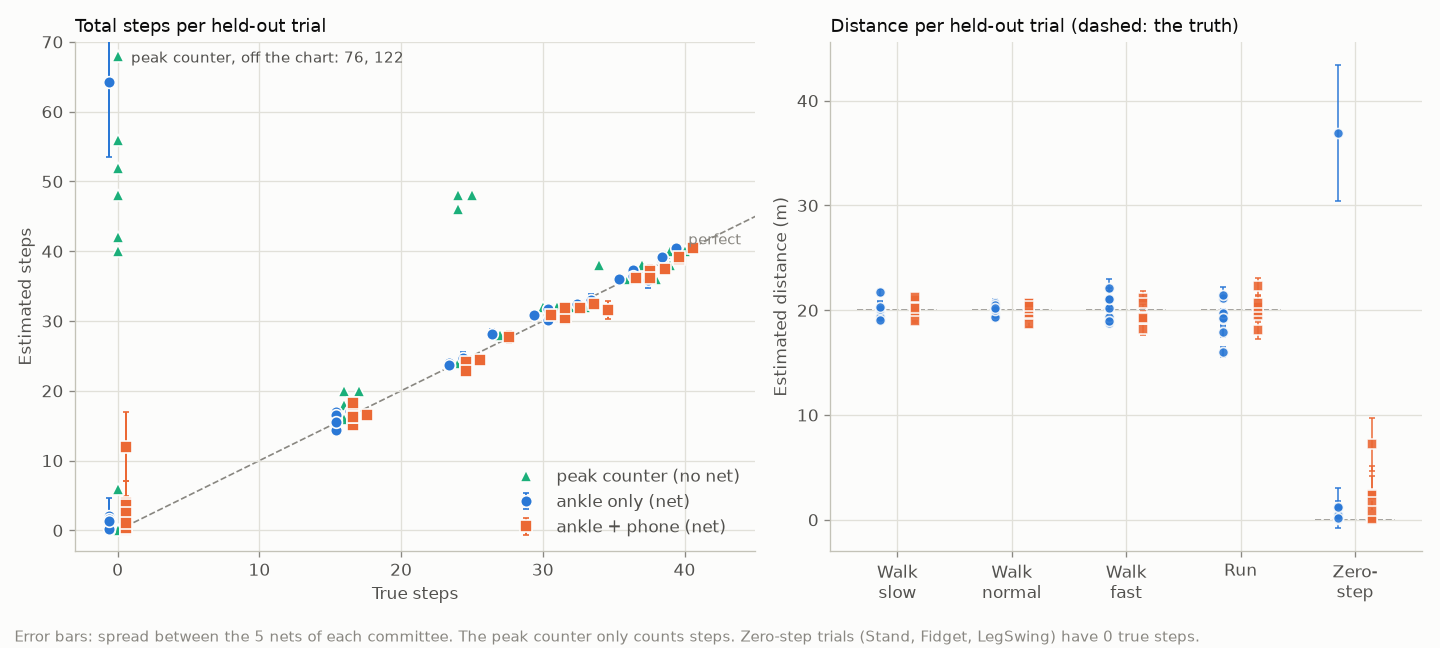
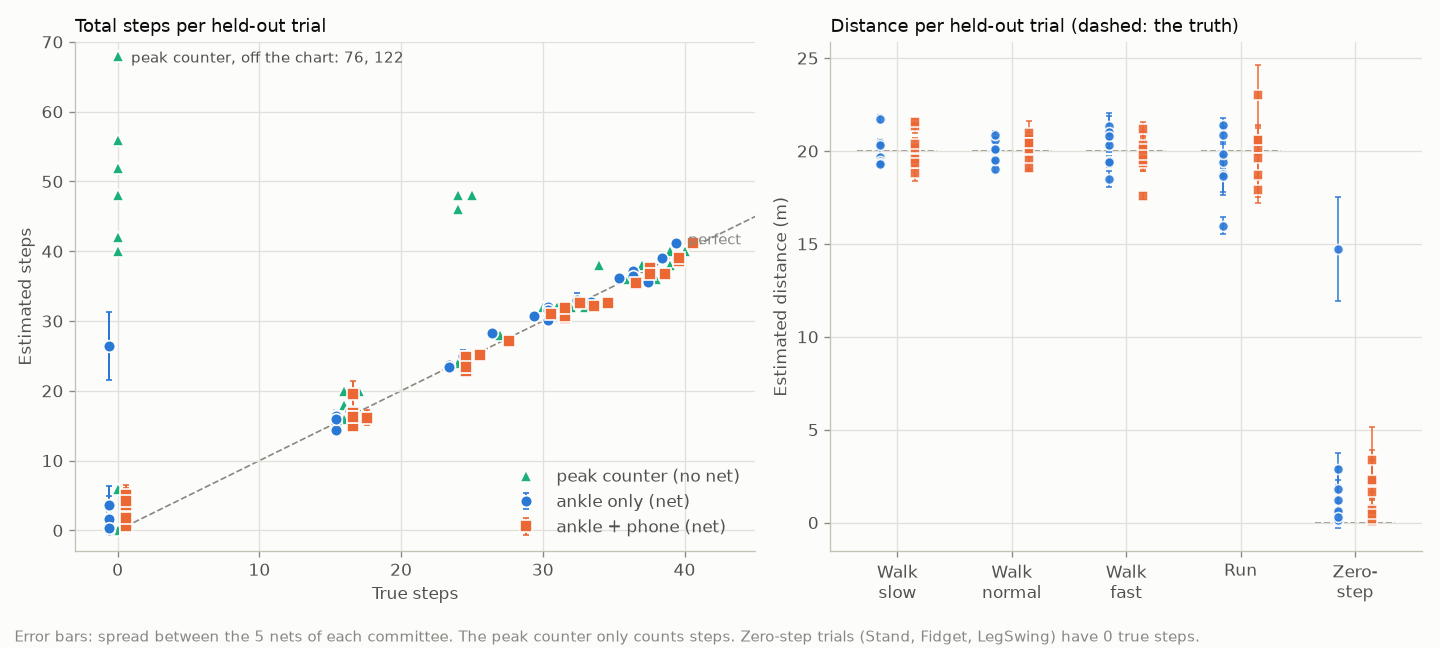
How Many Steps (HW7): step counter uses per-axis + direction-free features
Adds 10 features that don't depend on how the sensor sits on the leg
(spread and peak of the overall acceleration and rotation, and the spread
along each clip's own main directions) to the per-axis spread and peak.
Leave-one-trial-out, ankle only: 2.30 -> 1.49 steps per trial overall,
LegSwing T03 64 -> 27 steps, walks and runs within 0.07 steps per trial.
Model, plots, results, +/- table and READMEs updated. FEATURE_SET in
train_steps.py switches back to per-axis.

diff --git a/Mohammed's Projects/How Many Steps/training/train_steps.py b/Mohammed's Projects/How Many Steps/training/train_steps.py
@@ -16,8 +16,9 @@ What it does:
    its trial's step rate (steps / moving time) and speed (distance / moving
    time); zero-step trials get 0 for both.
 4. Features per clip: the spread (standard deviation) and peak (largest
-   absolute value) of each channel. No averages: those mostly measure how the
-   sensor is tilted, not how you move.
+   absolute value) of each channel, plus 10 that don't depend on how the
+   sensor sits on the leg (FEATURE_SET = "combined", see clip_features). No
+   averages: those mostly measure how the sensor is tilted, not how you move.
 5. A small net, features -> 16 -> 16 -> 2 (steps/s, m/s), trained with mean
    squared error until the loss flattens.
 6. Leave-one-trial-out testing: for every trial, a committee of 5 nets
@@ -63,6 +64,10 @@ SOFT_STOMP_S = 3                 # a stomp too soft for the checks' 3 g minimum 
                                  # is taken as the biggest spike in the first 3 s instead
 PACES = ["Walk_slow", "Walk_normal", "Walk_fast", "Run"]
 CHANNELS = ["ax", "ay", "az", "gx", "gy", "gz"]
+# Which features describe a clip (see clip_features):
+#   "per_axis": spread and peak of each sensor axis (12 per sensor)
+#   "combined": those, plus 10 that don't depend on how the sensor sits on the leg (22 per sensor)
+FEATURE_SET = "combined"
 
 N_NETS = 5                       # committee size
 HIDDEN = 16
@@ -149,15 +154,37 @@ def clip_starts(tr):
 
 
 def clip_features(x):
-    """Spread and peak of each channel of one clip (rows = samples, 6 columns)."""
-    return np.concatenate([x.std(axis=0), np.abs(x).max(axis=0)])
+    """Features of one clip (rows = samples, 6 columns: ax ay az gx gy gz).
+
+    Per axis: the spread and peak of each channel. These depend on how the
+    sensor sits on the leg: re-strapped at another angle, the same swing
+    shows up on different axes.
+
+    Direction-free (FEATURE_SET = "combined"), for acceleration and rotation
+    each: the spread and peak of the overall size (magnitude, whatever the
+    direction), and the spread along the clip's own three main directions,
+    largest first (the square roots of the covariance's eigenvalues). The
+    same movement gives the same numbers however the sensor is turned."""
+    per_axis = np.concatenate([x.std(axis=0), np.abs(x).max(axis=0)])
+    if FEATURE_SET == "per_axis":
+        return per_axis
+    free = []
+    for v in (x[:, :3], x[:, 3:]):
+        size = np.linalg.norm(v, axis=1)
+        main_spreads = np.sqrt(np.clip(np.linalg.eigvalsh(np.cov(v.T))[::-1], 0, None))
+        free += [size.std(), size.max(), *main_spreads]
+    return np.concatenate([per_axis, free])
 
 
 def feature_names(with_phone):
-    names = [f"ankle_{c}_spread" for c in CHANNELS] + [f"ankle_{c}_peak" for c in CHANNELS]
-    if with_phone:
-        names += [f"phone_{c}_spread" for c in CHANNELS] + [f"phone_{c}_peak" for c in CHANNELS]
-    return names
+    def one(sensor):
+        names = [f"{sensor}_{c}_spread" for c in CHANNELS] + [f"{sensor}_{c}_peak" for c in CHANNELS]
+        if FEATURE_SET == "combined":
+            for kind in ("acc", "gyro"):
+                names += [f"{sensor}_{kind}_size_spread", f"{sensor}_{kind}_size_peak",
+                          f"{sensor}_{kind}_main1_spread", f"{sensor}_{kind}_main2_spread", f"{sensor}_{kind}_main3_spread"]
+        return names
+    return one("ankle") + (one("phone") if with_phone else [])
 
 
 def trial_clips(tr, with_phone):

diff --git a/Mohammed's Projects/How Many Steps/README.md b/Mohammed's Projects/How Many Steps/README.md
@@ -35,8 +35,11 @@ to the laptop. Naming, columns and phyphox setup are in
 2. Cut it into 2 s clips, a new one every 0.5 s. Each clip's labels are its trial's step
    rate (steps ÷ moving time) and speed (distance ÷ moving time), 0 for the zero-step
    trials.
-3. Describe each clip by the spread and peak of each channel: 12 numbers for the ankle,
-   24 with the phone. No averages, since they mostly measure how the sensor is tilted.
+3. Describe each clip by the spread and peak of each channel, plus 10 numbers that don't
+   depend on how the sensor sits on the leg: the spread and peak of the overall
+   acceleration and rotation (whatever their direction), and the spread along the clip's
+   own three main directions. That's 22 numbers for the ankle, 44 with the phone. No
+   averages, since they mostly measure how the sensor is tilted.
 4. Train a net, features → 16 → 16 → 2 (steps/s, m/s), with mean squared error, inputs
    rescaled on the training trials only, until the loss flattens.
 5. Leave one trial out at a time: a committee of 5 nets trained without it estimates the
@@ -152,22 +155,23 @@ python "Mohammed's Projects/How Many Steps/data/sync_from_board.py"
 - `Outdoor` phone zips contain GPS positions, so they are kept off GitHub.
 
 - Step counter, leave-one-trial-out on 39 trials (`training/results.md` has the full
-  table): on walks and runs the ankle-only net is off by about 0.4-0.8 steps per trial
-  (1.5-4%) and 0.4-1.5 m of 20 m. The peak counter does well on most walks but
+  table): on walks and runs the ankle-only net is off by about 0.5-0.7 steps per trial
+  (1.7-3.4%) and 0.4-1.4 m of 20 m; 1.5 steps per trial over all trials. The peak counter does well on most walks but
   double-counts some fast walks, overcounts runs (41% and 13% off) and counts leg swings
   as steps. Adding the phone barely changes walks and runs.
 - Leg swings: with 8 LegSwing trials (sitting and standing, slow, fast and small), every
-  held-out one comes out at 0-2 steps except LegSwing T03, still about 64. Its swing turns
-  the sensor around the same axis as walking does (it was recorded with the sensor
-  strapped as for that session's walks), and the features are per sensor axis, so they
-  depend on how the sensor sits on the leg. Direction-free features (overall magnitudes,
-  and spread along each clip's own main directions) fix T03 (1 step) but do worse on some
-  other leg swings and slightly worse on walks, so they aren't used yet.
-- The dashboard's ± is the leave-one-out error per pace (e.g. 2% of the steps on a slow
+  held-out one comes out at 0-4 steps except LegSwing T03, at about 27. Its swing turns the
+  sensor around the same axis as walking does (it was recorded with the sensor strapped
+  as for that session's walks). Per-axis features depend on how the sensor sits on the
+  leg, which is why the 10 direction-free features were added: with only the per-axis
+  ones, T03 came out at 64 steps and the error over all trials was 2.3 steps per trial
+  (1.5 now), while walks and runs stayed within 0.1 step per trial of the current numbers.
+  `FEATURE_SET` at the top of `train_steps.py` switches back.
+- The dashboard's ± is the leave-one-out error per pace (e.g. about 3% of the steps on a
   walk, 5% on a run), saved in `step_model.npz`, not the spread between the committee's 5
-  nets. The nets agree with each other much more closely than with the truth (a spread
-  of 0.1-0.7 steps per trial against real errors up to 64 steps), so a ± from their
-  spread would look confident and be wrong. Details in
+  nets. The nets agree with each other much more closely than with the truth (a spread of
+  0.2-1.3 steps per trial, with the real error over twice that in 12 of 39 trials and up
+  to 27 steps), so a ± from their spread would look confident and be wrong. Details in
   [`dashboard/README.md`](dashboard/README.md).
 - The step counter's settings (clip length, layer size, learning rate, when to stop, the
   peak counter's thresholds) are constants at the top of `train_steps.py`.

diff --git a/Mohammed's Projects/How Many Steps/training/results.md b/Mohammed's Projects/How Many Steps/training/results.md
@@ -4,12 +4,12 @@ Written by `train_steps.py`. 39 good trials, 1775 clips of 2 s. Each trial's tot
 
 | Pace | Trials | Steps error: ankle only | Steps error: ankle + phone | Steps error: peak counter | Distance error: ankle only | Distance error: ankle + phone | Typical +/- (ankle only) |
 |---|---|---|---|---|---|---|---|
-| Walk_slow | 7 | 0.6 (1.5%) | 0.4 (1.0%) | 0.9 (2.3%) | 0.6 (3.2%) m | 0.6 (3.1%) m | 0.4 steps, 0.4 m |
-| Walk_normal | 7 | 0.8 (2.5%) | 0.8 (2.7%) | 1.4 (4.5%) | 0.4 (2.1%) m | 0.6 (2.9%) m | 0.4 steps, 0.3 m |
-| Walk_fast | 7 | 0.4 (1.8%) | 0.6 (2.4%) | 10.0 (40.7%) | 1.0 (5.2%) m | 0.9 (4.7%) m | 0.5 steps, 0.6 m |
-| Run | 7 | 0.6 (3.8%) | 0.7 (4.6%) | 2.1 (13.3%) | 1.5 (7.6%) m | 0.9 (4.4%) m | 0.5 steps, 0.5 m |
-| Zero-step | 11 | 6.6 | 2.3 | 40.2 | 3.9 m | 1.4 m | 1.5 steps, 1.1 m |
-| All | 39 | 2.3 (11.6%) | 1.1 (5.6%) | 13.9 (70.2%) | 1.8 (12.2%) m | 0.9 (6.6%) m | 0.7 steps, 0.6 m |
+| Walk_slow | 7 | 0.6 (1.7%) | 0.6 (1.6%) | 0.9 (2.3%) | 0.7 (3.3%) m | 0.8 (4.1%) m | 0.2 steps, 0.2 m |
+| Walk_normal | 7 | 0.7 (2.3%) | 0.8 (2.5%) | 1.4 (4.5%) | 0.4 (2.2%) m | 0.6 (2.8%) m | 0.5 steps, 0.4 m |
+| Walk_fast | 7 | 0.5 (2.1%) | 0.6 (2.3%) | 10.0 (40.7%) | 0.9 (4.4%) m | 0.8 (3.8%) m | 0.5 steps, 0.5 m |
+| Run | 7 | 0.5 (3.4%) | 1.0 (6.2%) | 2.1 (13.3%) | 1.4 (6.9%) m | 1.2 (5.8%) m | 0.5 steps, 0.6 m |
+| Zero-step | 11 | 3.7 | 1.6 | 40.2 | 2.1 m | 1.0 m | 1.3 steps, 0.8 m |
+| All | 39 | 1.5 (7.5%) | 1.0 (4.9%) | 13.9 (70.2%) | 1.2 (8.4%) m | 0.9 (6.2%) m | 0.7 steps, 0.5 m |
 
 ## The +/- the dashboard shows
 
@@ -17,8 +17,8 @@ From the ankle-only errors above (root-mean-square per group), not from the comm
 
 | Group | Steps +/- | Distance +/- | Applies when the net's step rate is |
 |---|---|---|---|
-| Zero-step | 0.32 false steps per second | 0.18 m per second | below 0.71 steps/s |
-| Walk_slow | 2.3% of the steps | 4.1% of the distance | 0.71 to 1.50 steps/s |
-| Walk_normal | 2.5% of the steps | 2.4% of the distance | 1.50 to 1.74 steps/s |
-| Walk_fast | 2.2% of the steps | 5.9% of the distance | 1.74 to 2.09 steps/s |
-| Run | 4.9% of the steps | 9.5% of the distance | 2.09 and up steps/s |
+| Zero-step | 0.14 false steps per second | 0.08 m per second | below 0.71 steps/s |
+| Walk_slow | 2.7% of the steps | 4.0% of the distance | 0.71 to 1.50 steps/s |
+| Walk_normal | 2.6% of the steps | 2.8% of the distance | 1.50 to 1.74 steps/s |
+| Walk_fast | 2.4% of the steps | 4.9% of the distance | 1.74 to 2.09 steps/s |
+| Run | 4.6% of the steps | 9.0% of the distance | 2.09 and up steps/s |

diff --git a/Mohammed's Projects/How Many Steps/dashboard/README.md b/Mohammed's Projects/How Many Steps/dashboard/README.md
@@ -40,7 +40,7 @@ uncertainties grow as the walk goes on, since small errors add up.
 
 The ± is how far off the step counter really was when it was tested on trials it hadn't
 seen (leave-one-trial-out, in `training/train_steps.py`), per pace, as the
-root-mean-square error. For example: about 2% of the steps on a slow walk, 5% on a run.
+root-mean-square error. For example: about 3% of the steps on a walk, 5% on a run.
 Zero-step activities have no true total to take a percentage of, so for them it's false
 steps (and meters) per second. The numbers are in `training/step_model.npz`, with a table
 in `training/results.md`. Each half second, the sender picks the pace from the net's own
@@ -48,8 +48,8 @@ step rate and adds that pace's share to the running ±.
 
 It is **not** the spread between the committee's 5 nets. The 5 nets agree with each
 other far more closely than they agree with the truth: in testing, the spread was
-usually 0.1-0.7 steps per trial while the real errors were larger, up to 64 steps on a
-leg-swing trial. A ± from that spread would look confident and be wrong. The
+usually 0.2-1.3 steps per trial, while the real error was more than twice that in 12 of 39
+trials, up to 27 steps on a leg-swing trial. A ± from that spread would look confident and be wrong. The
 leave-one-out error is measured against the truth, so it's honest about how far off the
 count can be.
 
